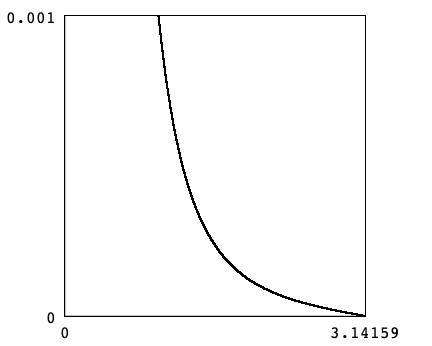
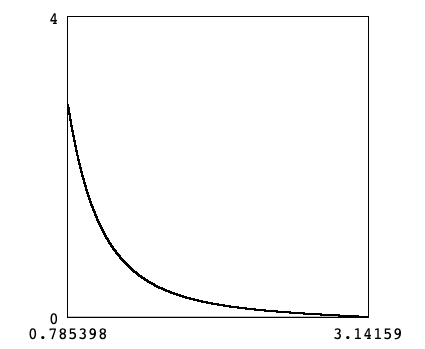
update

diff --git a/rutherford-scattering.tex b/rutherford-scattering.tex
@@ -166,7 +166,7 @@ We can integrate $d\sigma$ to obtain a cumulative distribution function.
 \noindent
 Let
 \begin{equation*}
-I(\theta)=2\pi\int_\alpha^\xi\frac{d\sigma}{d\Omega}\,\sin\theta\,d\theta,
+I(\theta)=\int_\alpha^\xi\frac{d\sigma}{d\Omega}\,\sin\theta\,d\theta,
 \quad\alpha\le\xi\le\pi
 \end{equation*}
 
@@ -191,19 +191,19 @@ P(\theta_1\le\theta\le\theta_2)=F(\theta_2)-F(\theta_1)
 \noindent
 The probability density is
 \begin{equation*}
-f(\theta)=\frac{dF(\theta)}{d\theta}=\frac{\sin\theta}{I(\pi)(\cos\theta-1)^2},
+f(\theta)=\frac{dF(\theta)}{d\theta}=\frac{1}{I(\pi)}\frac{d\sigma}{d\Omega}\sin\theta,
 \qquad\alpha\le\theta\le\pi
 \end{equation*}
 
 \noindent
-Run ``rutherford-scattering-3.txt'' to draw a graph of $f(\theta)$.
+Run ``rutherford-scattering-3.txt'' to draw a graph of $f(\theta)$ for $\alpha=\tfrac{1}{4}\pi=45^\circ$.
 
 \begin{center}
 \includegraphics[scale=0.5]{rutherford-scattering-ss1.png}
 \end{center}
 
 \noindent
-Here is a probability distribution for $45^\circ$ bins with $\alpha=45^\circ$.
+The following table shows the corresponding probability distribution for three bins.
 
 \begin{center}
 \begin{tabular}{|c|c|c|}
